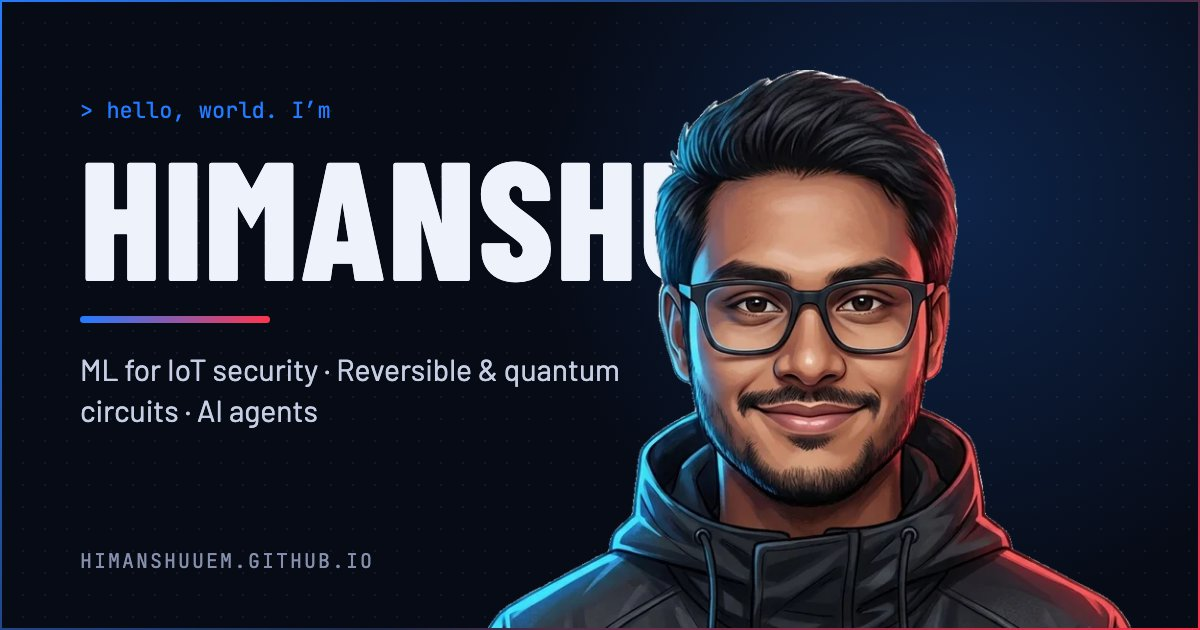
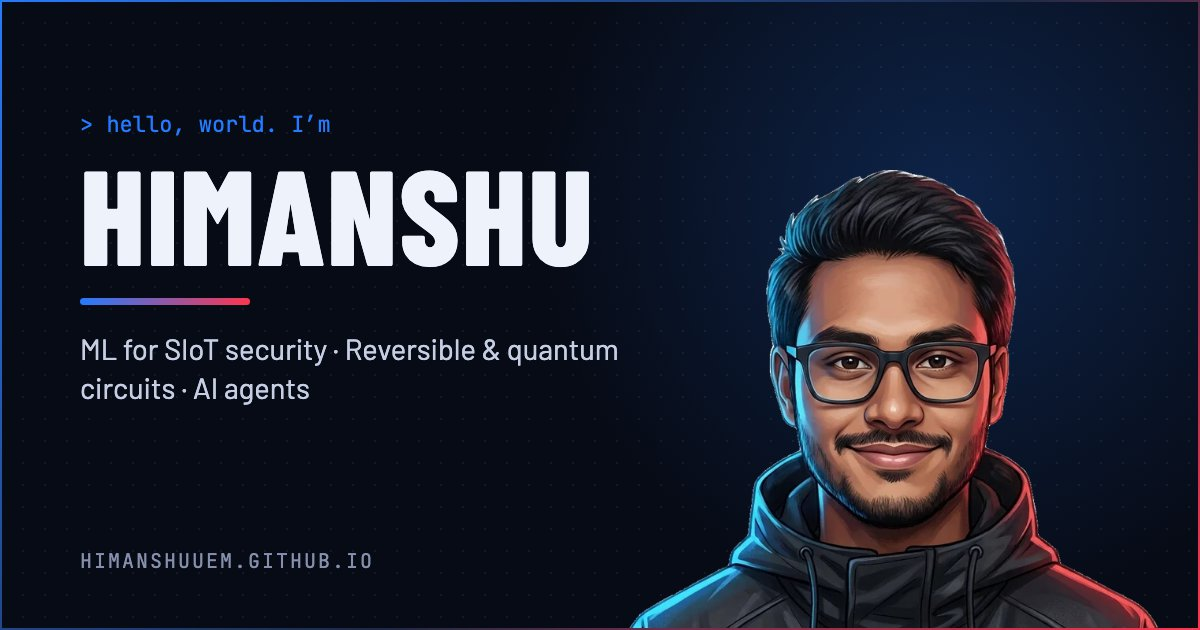
Say SIoT, not generic IoT; refresh share image

Changed region(s): [[0.0617, 0.0905, 0.9867, 1.0], [0.0617, 0.5429, 0.5242, 0.6937], [0.0617, 0.1508, 0.2775, 0.2111]]

diff --git a/index.html b/index.html
@@ -3,14 +3,14 @@
 <head>
 <meta charset="utf-8">
 <meta name="viewport" content="width=device-width, initial-scale=1">
-<title>Himanshu — ML for IoT Security</title>
-<meta name="description" content="Himanshu — M.Tech (IT) at IIEST Shibpur. Machine learning for Social-IoT security, reversible and quantum circuits, and AI agents.">
+<title>Himanshu — ML for SIoT Security</title>
+<meta name="description" content="Himanshu — M.Tech (IT) at IIEST Shibpur. Machine learning for Social IoT (SIoT) security, reversible and quantum circuits, and AI agents.">
 <link rel="canonical" href="https://himanshuuem.github.io/">
 <meta name="theme-color" content="#070b16">
 <meta property="og:type" content="website">
 <meta property="og:url" content="https://himanshuuem.github.io/">
-<meta property="og:title" content="Himanshu — ML for IoT Security">
-<meta property="og:description" content="M.Tech (IT) at IIEST Shibpur. Social-IoT intrusion detection, reversible quantum arithmetic, AI agents.">
+<meta property="og:title" content="Himanshu — ML for SIoT Security">
+<meta property="og:description" content="M.Tech (IT) at IIEST Shibpur. SIoT intrusion detection and trust scoring, reversible quantum arithmetic, AI agents.">
 <meta property="og:image" content="https://himanshuuem.github.io/img/og.jpg">
 <meta name="twitter:card" content="summary_large_image">
 <link rel="icon" href="img/favicon.svg" type="image/svg+xml">
@@ -213,8 +213,8 @@ footer{padding:28px 0 40px;font:12.5px var(--mono);color:var(--muted);text-align
       <p class="hello rise">&gt; hello, world. I’m</p>
       <h1 class="rise d1">HIMANSHU</h1>
       <div class="bar rise d2"></div>
-      <p class="roles rise d2">ML for IoT security · Reversible &amp; quantum circuits · AI agents</p>
-      <p class="pitch rise d3">I build machine-learning systems that secure connected devices — from Social-IoT intrusion detection to reversible quantum arithmetic. M.Tech (IT) student at IIEST Shibpur.</p>
+      <p class="roles rise d2">ML for SIoT security · Reversible &amp; quantum circuits · AI agents</p>
+      <p class="pitch rise d3">I build machine-learning systems for Social IoT (SIoT) security — intrusion detection and trust scoring that fuse social-graph and network-traffic signals. I also design reversible quantum arithmetic circuits. M.Tech (IT) student at IIEST Shibpur.</p>
       <div class="cta rise d4">
         <a class="btn primary" href="https://github.com/himanshuuem"><svg viewBox="0 0 24 24" aria-hidden="true"><path d="M12 .3a12 12 0 0 0-3.8 23.4c.6.1.8-.3.8-.6v-2c-3.3.7-4-1.6-4-1.6-.6-1.4-1.4-1.8-1.4-1.8-1-.7.1-.7.1-.7 1.2.1 1.8 1.2 1.8 1.2 1 1.8 2.8 1.3 3.5 1 0-.8.4-1.3.7-1.6-2.7-.3-5.5-1.3-5.5-6 0-1.2.5-2.3 1.3-3.1-.2-.4-.6-1.6 0-3.2 0 0 1-.3 3.4 1.2a11.5 11.5 0 0 1 6 0c2.3-1.5 3.3-1.2 3.3-1.2.6 1.6.2 2.8 0 3.2.9.8 1.3 1.9 1.3 3.2 0 4.6-2.8 5.6-5.5 5.9.5.4.9 1 .9 2.2v3.3c0 .3.1.7.8.6A12 12 0 0 0 12 .3"/></svg>GitHub</a>
         <a class="btn" href="https://www.linkedin.com/in/himanshuuem"><svg viewBox="0 0 24 24" aria-hidden="true"><path d="M20.45 20.45h-3.55v-5.57c0-1.33-.03-3.04-1.85-3.04-1.86 0-2.14 1.45-2.14 2.94v5.67H9.35V9h3.41v1.56h.05c.48-.9 1.64-1.85 3.37-1.85 3.6 0 4.27 2.37 4.27 5.46v6.28zM5.34 7.43a2.06 2.06 0 1 1 0-4.12 2.06 2.06 0 0 1 0 4.12zM7.12 20.45H3.56V9h3.56v11.45zM22.22 0H1.77C.79 0 0 .77 0 1.73v20.54C0 23.23.79 24 1.77 24h20.45c.98 0 1.78-.77 1.78-1.73V1.73C24 .77 23.2 0 22.22 0z"/></svg>LinkedIn</a>
@@ -248,7 +248,7 @@ footer{padding:28px 0 40px;font:12.5px var(--mono);color:var(--muted);text-align
         <p class="full">Social-aware Cross-layer Reputation and Anomaly Tracking Ensemble System</p>
         <ol class="steps">
           <li><b>The gap.</b> Legacy intrusion-detection systems can’t see attacks that span low-level network telemetry and high-level social-graph dynamics.</li>
-          <li><b>The need.</b> Securing Social-IoT deployments requires an IDS that continuously correlates packet flows with relational context.</li>
+          <li><b>The need.</b> Securing Social IoT (SIoT) deployments requires an IDS that continuously correlates packet flows with relational context.</li>
           <li><b>The approach.</b> Fuse topological features from real SIoT relationship graphs with traffic features from real IoT benchmarks into one IDS-cum-trust-scoring model.</li>
         </ol>
         <p class="date wrapline">SUPERVISOR · DR. SURAJIT KUMAR ROY · DEPT. OF IT, IIEST SHIBPUR</p>
@@ -372,7 +372,7 @@ footer{padding:28px 0 40px;font:12.5px var(--mono);color:var(--muted);text-align
   <div class="wrap">
     <p class="kicker"><b>05</b> / Contact</p>
     <h2>LET’S BUILD SOMETHING.</h2>
-    <p>Open to ML-engineering and security-ML internships and roles, research collaborations, and conversations about IoT security or AI agents.</p>
+    <p>Open to ML-engineering and security-ML internships and roles, research collaborations, and conversations about SIoT security or AI agents.</p>
     <div class="cta">
       <a class="btn primary" href="mailto:himanshuuem@gmail.com"><svg viewBox="0 0 24 24" aria-hidden="true"><path d="M2 5.5A2.5 2.5 0 0 1 4.5 3h15A2.5 2.5 0 0 1 22 5.5v13a2.5 2.5 0 0 1-2.5 2.5h-15A2.5 2.5 0 0 1 2 18.5v-13zm2.3-.5 7.7 6.2L19.7 5H4.3zM20 6.9l-7.4 6a1 1 0 0 1-1.2 0L4 6.9v11.6c0 .3.2.5.5.5h15c.3 0 .5-.2.5-.5V6.9z"/></svg>Email me</a>
       <a class="btn" href="https://www.linkedin.com/in/himanshuuem"><svg viewBox="0 0 24 24" aria-hidden="true"><path d="M20.45 20.45h-3.55v-5.57c0-1.33-.03-3.04-1.85-3.04-1.86 0-2.14 1.45-2.14 2.94v5.67H9.35V9h3.41v1.56h.05c.48-.9 1.64-1.85 3.37-1.85 3.6 0 4.27 2.37 4.27 5.46v6.28zM5.34 7.43a2.06 2.06 0 1 1 0-4.12 2.06 2.06 0 0 1 0 4.12zM7.12 20.45H3.56V9h3.56v11.45zM22.22 0H1.77C.79 0 0 .77 0 1.73v20.54C0 23.23.79 24 1.77 24h20.45c.98 0 1.78-.77 1.78-1.73V1.73C24 .77 23.2 0 22.22 0z"/></svg>LinkedIn</a>
